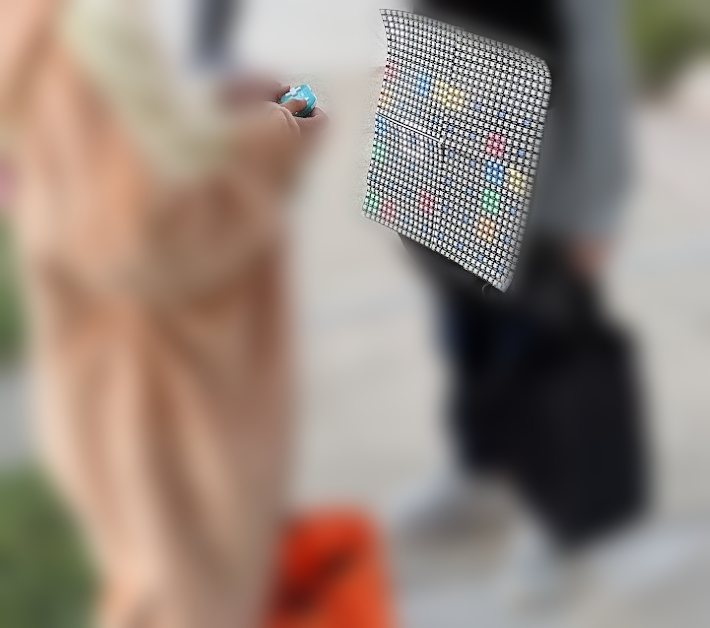
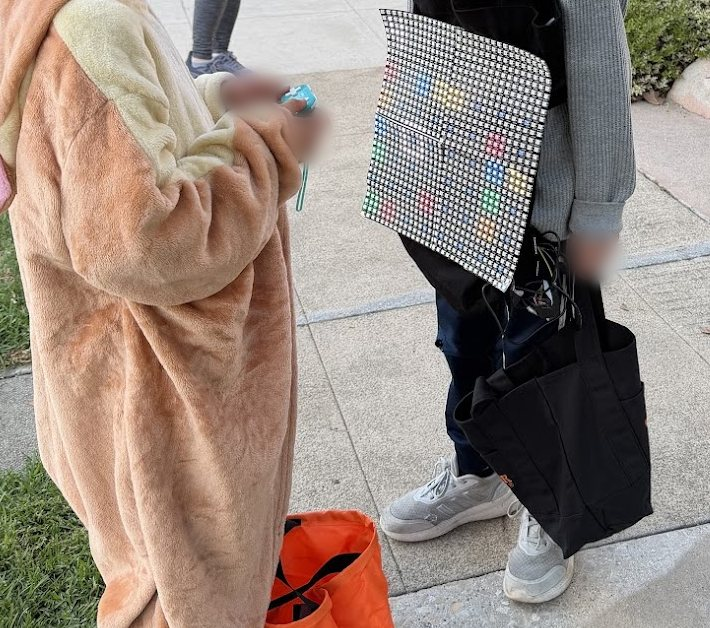
Use a clearer version of the sidewalk photo
Faces are cropped out and only bare hands are softened.
The earlier version blurred the whole picture.

diff --git a/README.md b/README.md
@@ -16,7 +16,7 @@ We built it to be interactive. The screen faces out and the controller is wirele
 
 Note: I'm a non-technical lawyer. I can't really code. Claude wrote all the firmware, the guides and most of this README. Full disclosure: I work at Anthropic. This is a personal project, not an Anthropic product.
 
-![Two kids on a sidewalk, seen from the shoulders down. One holds the controller. The other wears the LED screen. Everything but the screen and the controller is blurred.](docs/friends.jpg)
+![Two kids on a sidewalk, seen from the shoulders down. One in a fuzzy costume holds the controller. The other wears the LED screen.](docs/friends.jpg)
 
 ## Buttons
 
